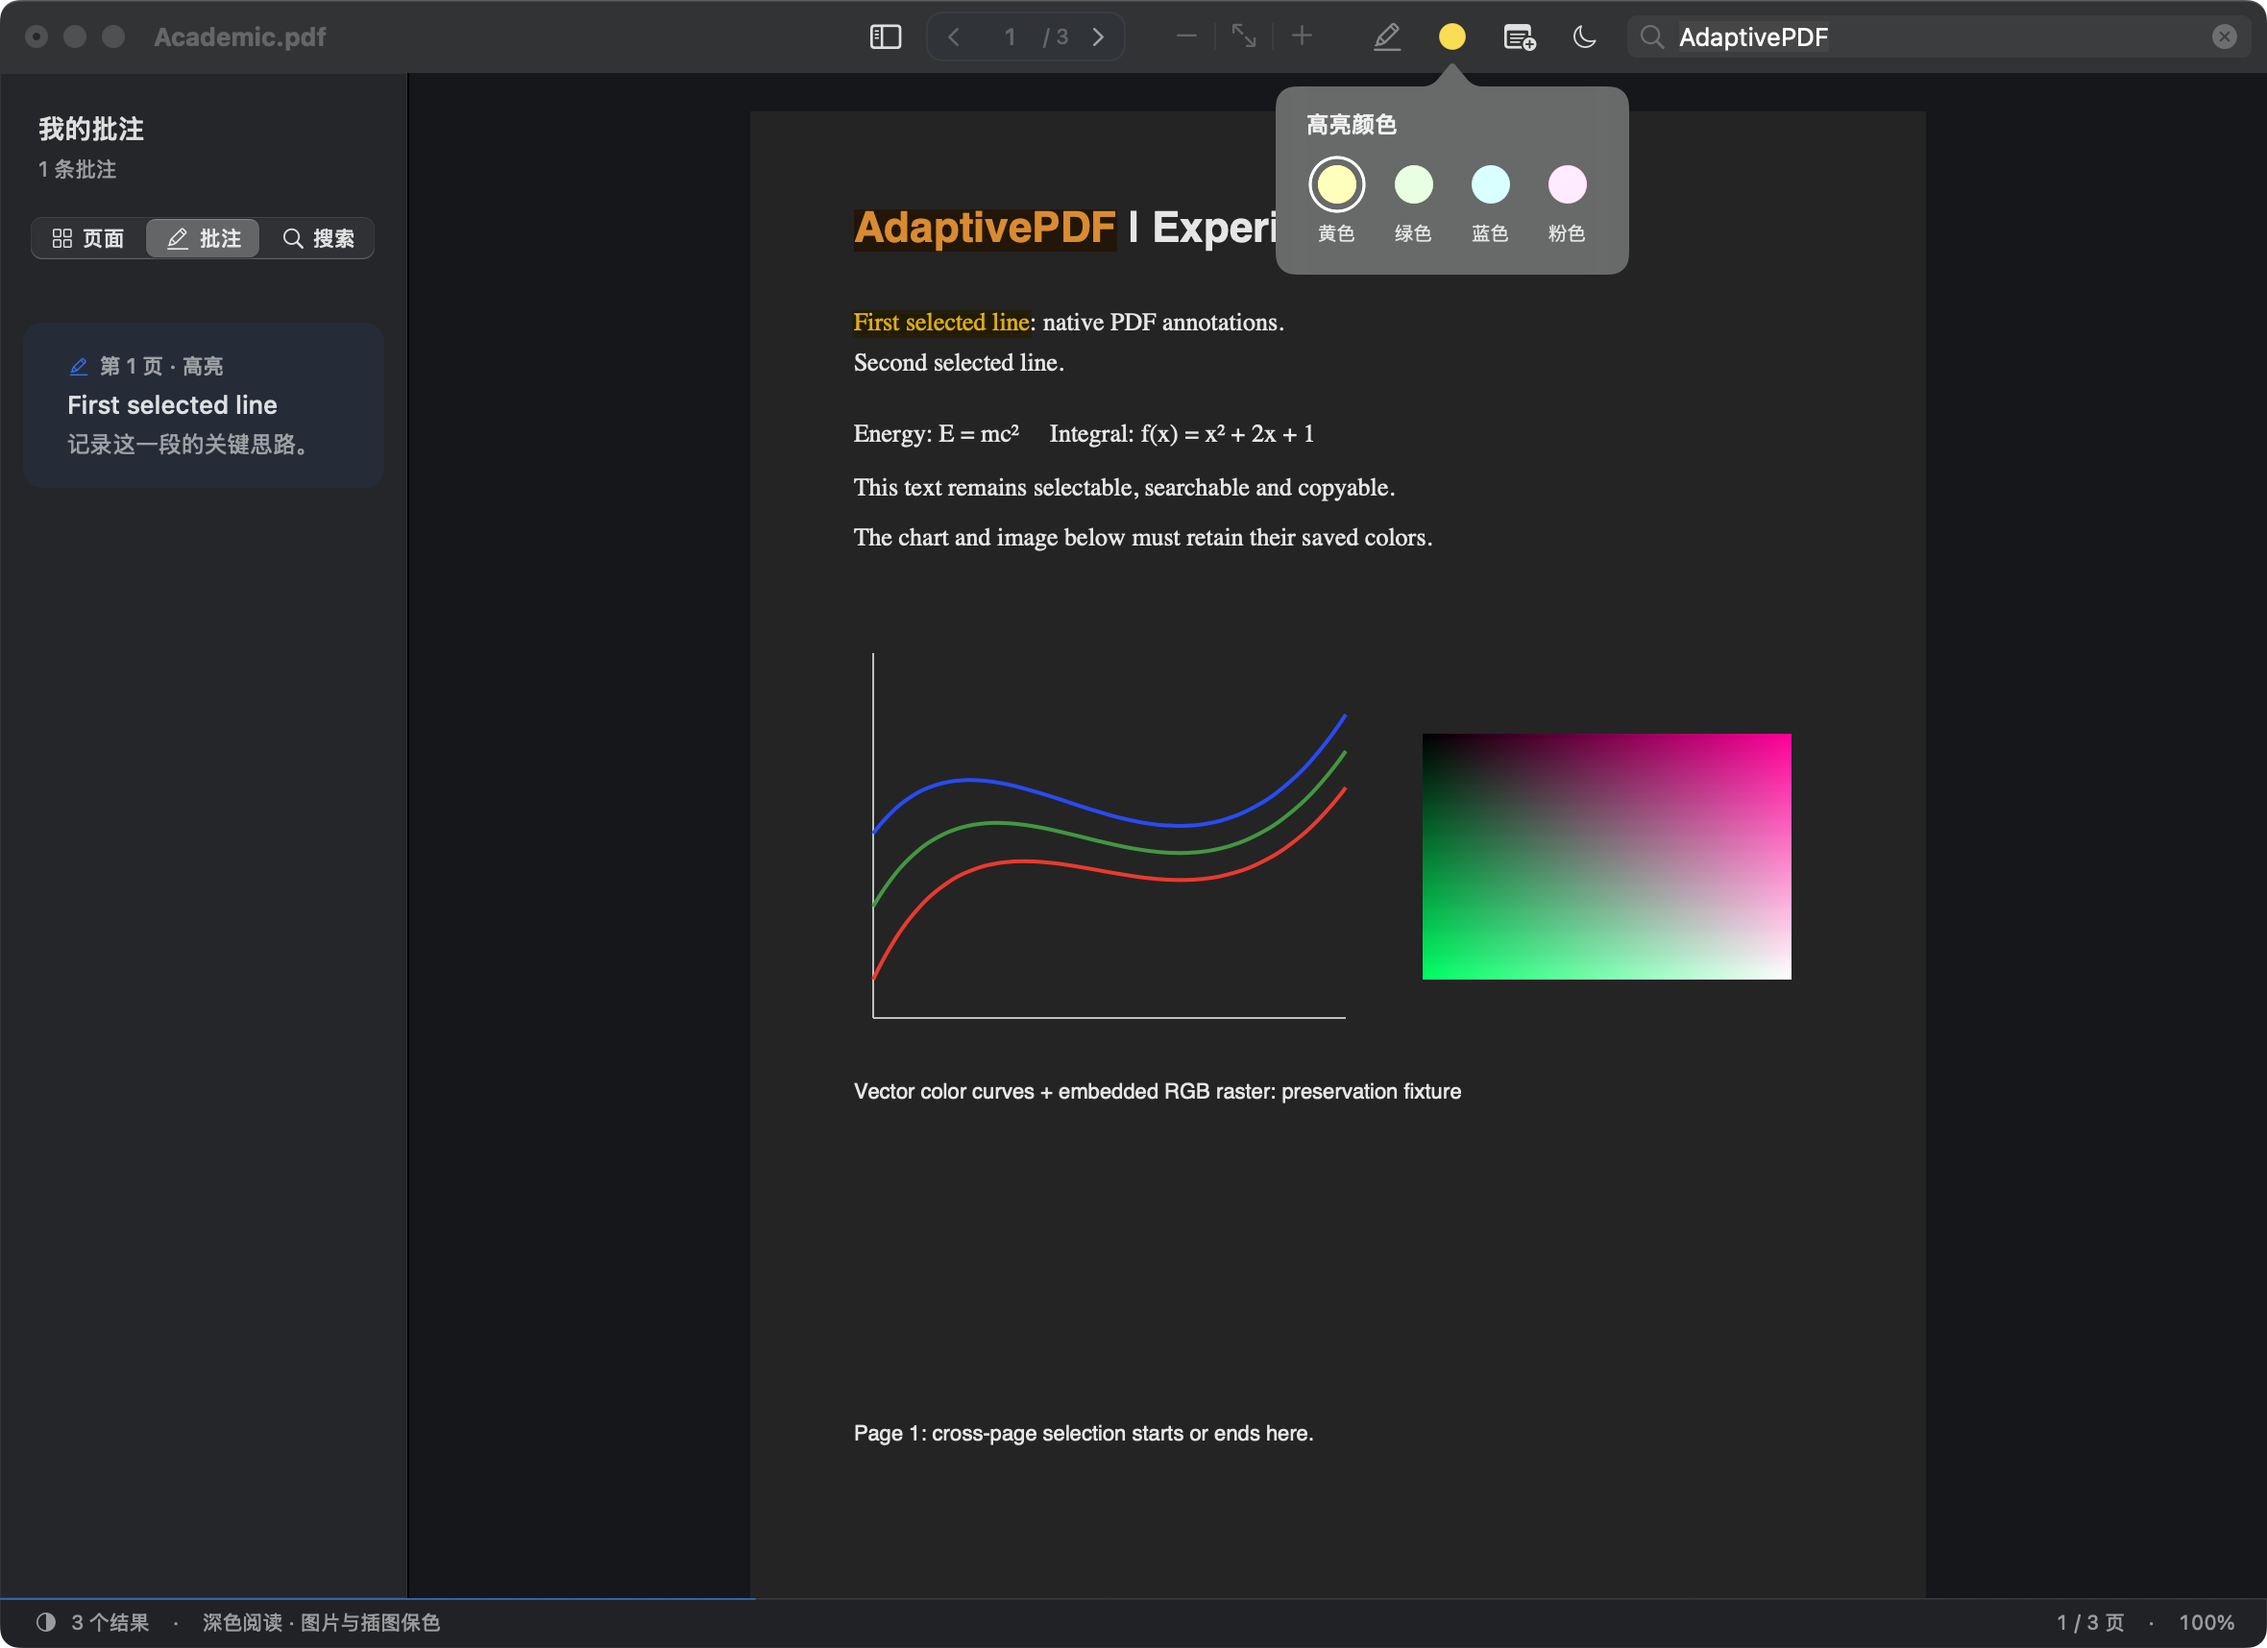
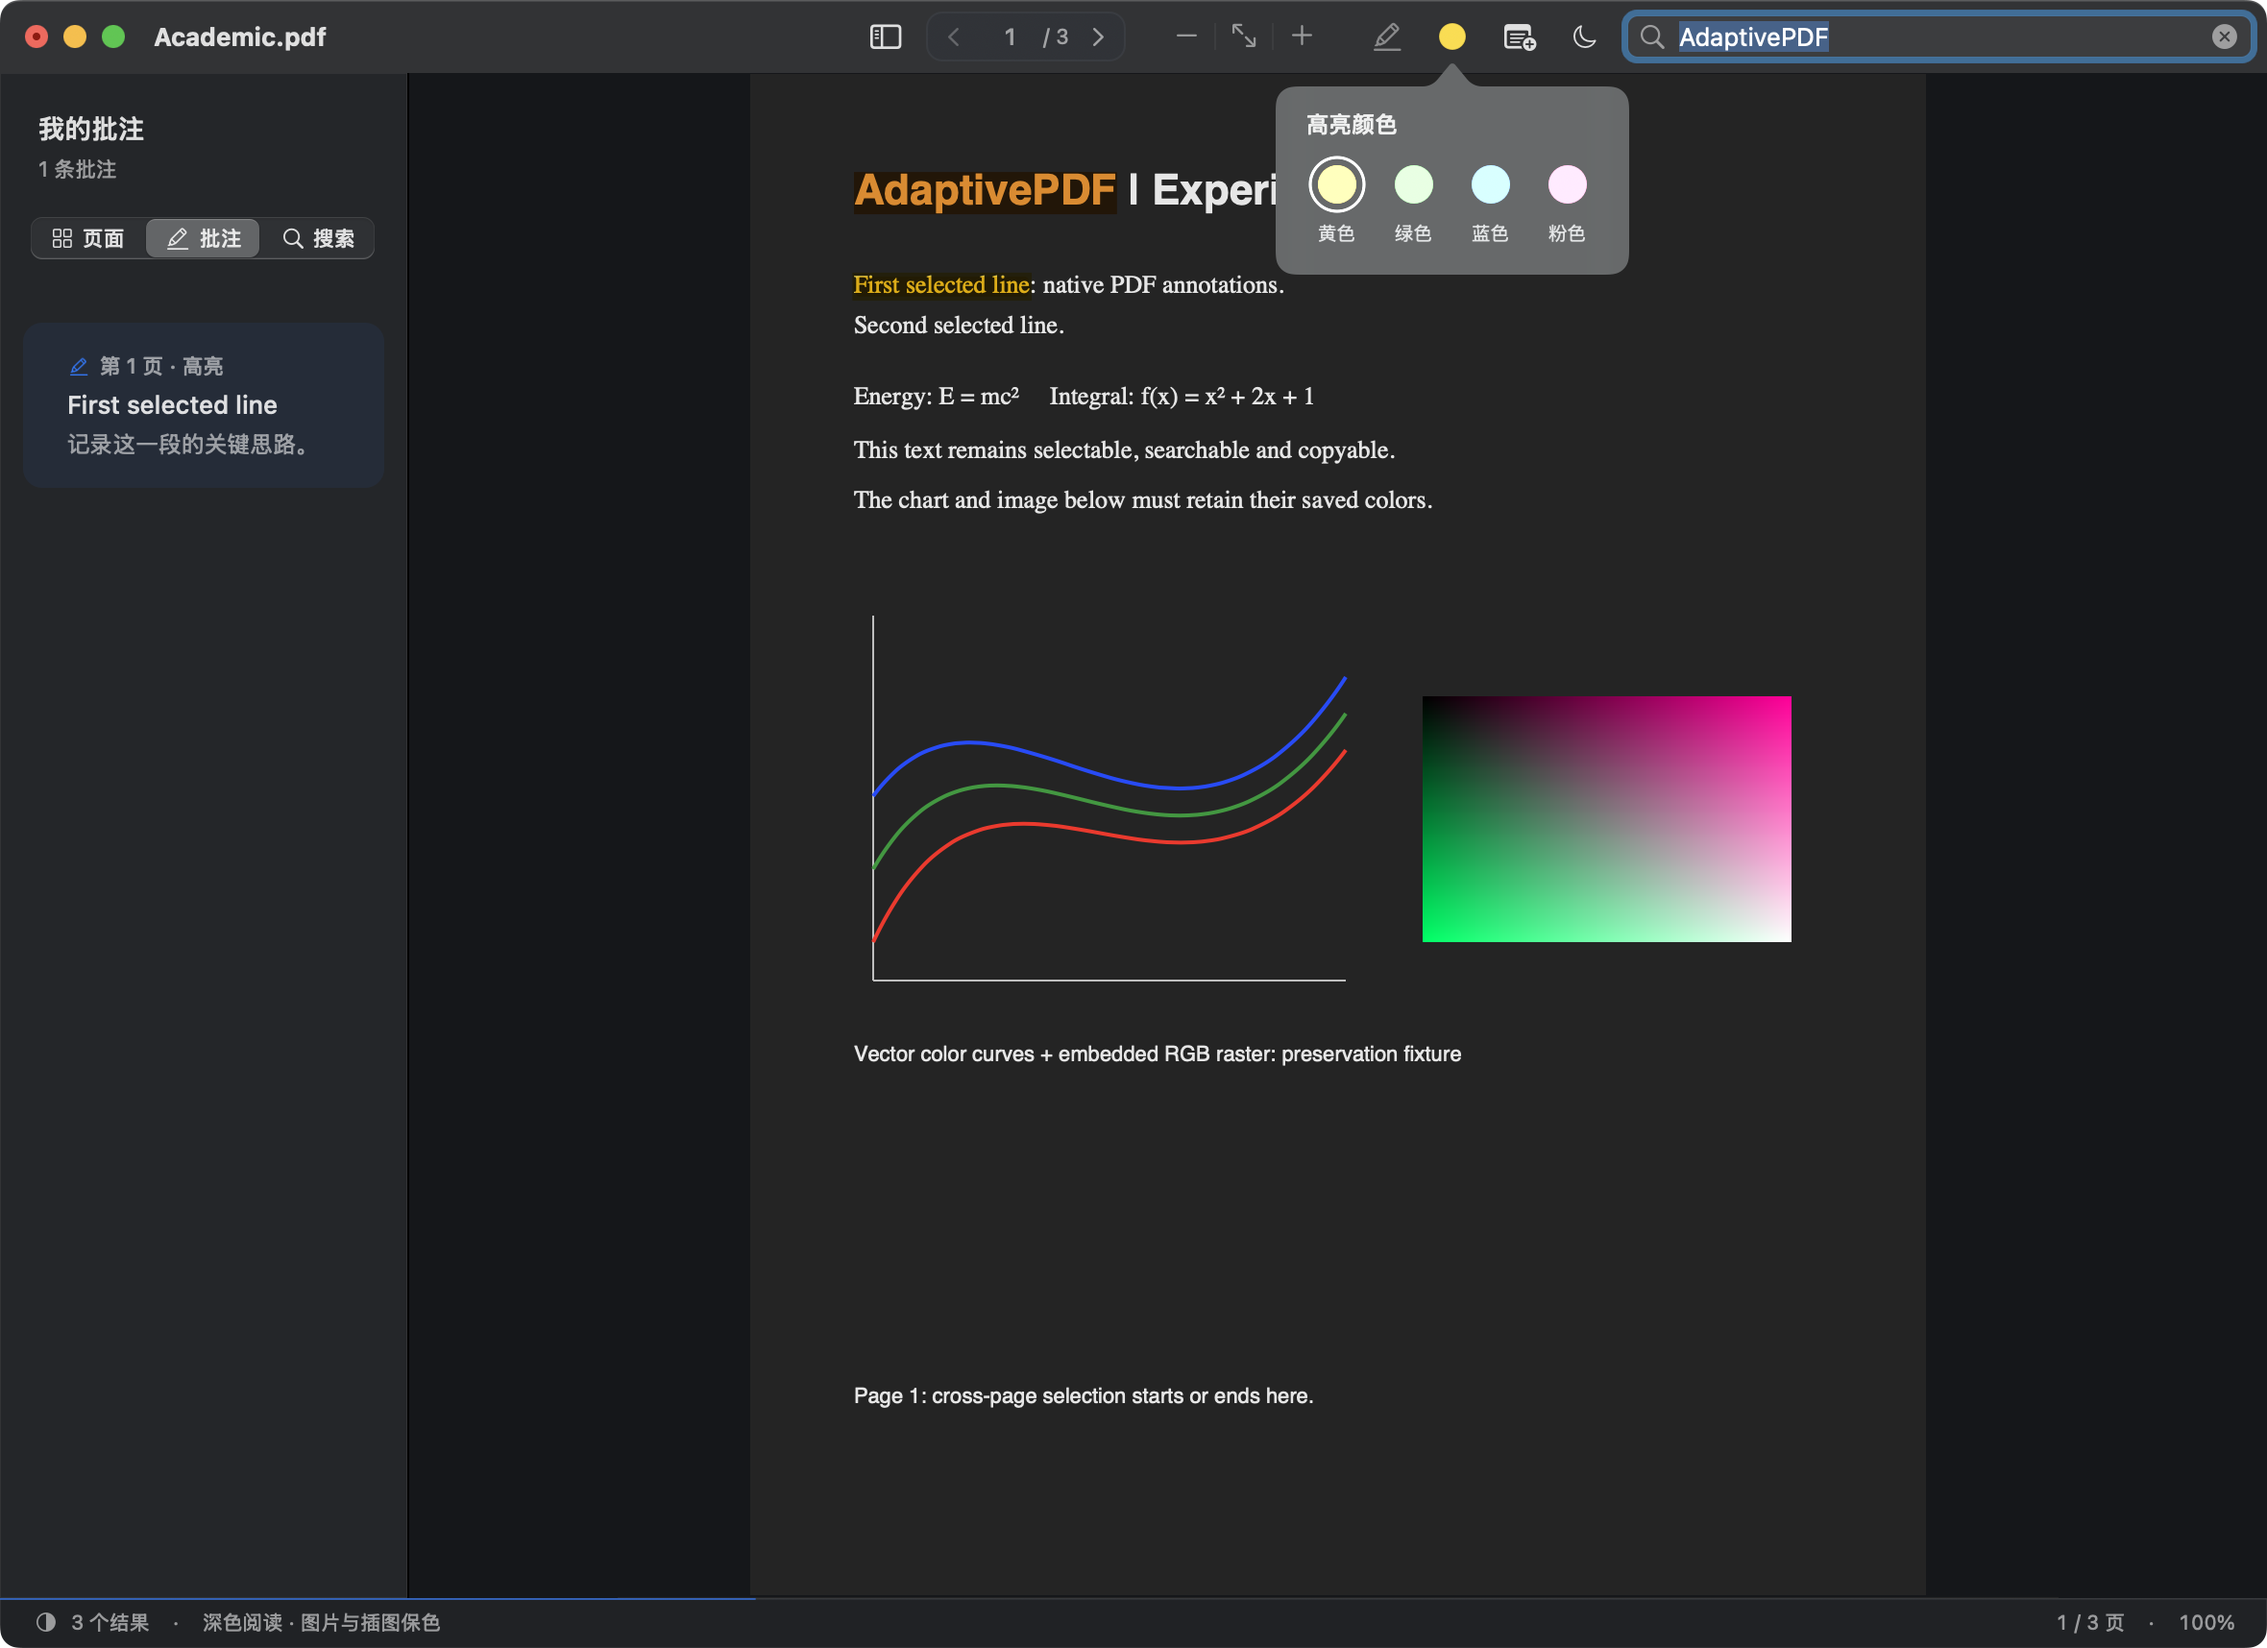
Reduce continuous page gaps and remove reading shadows

diff --git a/AdaptivePDF/Reader/ReaderPDFView.swift b/AdaptivePDF/Reader/ReaderPDFView.swift
@@ -34,7 +34,8 @@ final class ReaderPDFView: PDFView {
         displayMode = .singlePageContinuous
         displayDirection = .vertical
         displaysPageBreaks = true
-        pageBreakMargins = NSEdgeInsets(top: 20,left: 24,bottom: 20,right: 24)
+        pageBreakMargins = NSEdgeInsets(top: 0.5,left: 24,bottom: 0.5,right: 24)
+        pageShadowsEnabled = false
         minScaleFactor = 0.10
         maxScaleFactor = 8
         registerForDraggedTypes([.fileURL])
@@ -52,7 +53,7 @@ final class ReaderPDFView: PDFView {
         renderingLock.lock(); preserveImages = preserving; renderingLock.unlock()
         (document as? ImagePreservingPDFDocument)?.imagePreservingDark = preserving
         basicDarkActive = active
-        pageShadowsEnabled = !(active || preserving)
+        pageShadowsEnabled = false
         // A compositor filter changes neither PDF objects nor the geometry of
         // selections / hit targets, and needs no full-page bitmap cache.
         layer?.filters = active ? AppearancePreferences.basicDarkFilter().map { [$0] } : nil

diff --git a/scripts/generate_project.py b/scripts/generate_project.py
@@ -79,7 +79,7 @@ for owner in ["project", "target", "ui-target"]:
                 "ENABLE_HARDENED_RUNTIME": "YES", "ENABLE_APP_SANDBOX": "NO",
                 "LD_RUNPATH_SEARCH_PATHS": "$(inherited) @executable_path/../Frameworks",
                 "SUPPORTED_PLATFORMS": "macosx", "ARCHS": "$(ARCHS_STANDARD)",
-                "MARKETING_VERSION": "1.0.0", "CURRENT_PROJECT_VERSION": "13",
+                "MARKETING_VERSION": "1.0.0", "CURRENT_PROJECT_VERSION": "14",
                 "CODE_SIGN_INJECT_BASE_ENTITLEMENTS": "YES" if config == "Debug" else "NO",
                 "SWIFT_OBJC_BRIDGING_HEADER": "AdaptivePDF/AdaptivePDF-Bridging-Header.h",
                 "CLANG_CXX_LANGUAGE_STANDARD": "c++20", "CLANG_ENABLE_OBJC_ARC": "YES",

diff --git a/README.md b/README.md
@@ -4,13 +4,13 @@
 
 使用 Swift、AppKit、PDFKit、Core Graphics 与 qpdf 构建，文件在本机处理，无需注册账号。
 
-**当前版本：1.0.0 预览版（build 13）。** 安装包采用本地 ad-hoc 签名，尚未完成 Developer ID 签名和 Apple 公证。
+**当前版本：1.0.0 预览版（build 14）。** 安装包采用本地 ad-hoc 签名，尚未完成 Developer ID 签名和 Apple 公证。
 
 ## 下载
 
-- [下载 macOS 安装包（DMG）](https://github.com/MrszhuL/AdaptivePDF/releases/download/v1.0.0-build13/AdaptivePDF.dmg)
-- [下载应用压缩包（ZIP）](https://github.com/MrszhuL/AdaptivePDF/releases/download/v1.0.0-build13/AdaptivePDF-macOS.zip)
-- [版本说明、源码与 SHA256 校验文件](https://github.com/MrszhuL/AdaptivePDF/releases/tag/v1.0.0-build13)
+- [下载 macOS 安装包（DMG）](https://github.com/MrszhuL/AdaptivePDF/releases/download/v1.0.0-build14/AdaptivePDF.dmg)
+- [下载应用压缩包（ZIP）](https://github.com/MrszhuL/AdaptivePDF/releases/download/v1.0.0-build14/AdaptivePDF-macOS.zip)
+- [版本说明、源码与 SHA256 校验文件](https://github.com/MrszhuL/AdaptivePDF/releases/tag/v1.0.0-build14)
 
 两个安装包包含相同的 Universal 应用。普通使用者下载 DMG 即可，无需安装 Xcode、Python 或 qpdf。
 
@@ -26,7 +26,7 @@
 ## 主要功能
 
 - **紧凑原生界面**：单行工具栏、图标式主题入口和圆点颜色面板；柔和侧栏、清晰页码、批注卡片与阅读进度细线。窄窗口保留翻页、主题和搜索入口。
-- **原生阅读**：本地 PDF、多窗口、连续滚动或单页、缩放、适合页面/宽度、页码跳转、文字选择与复制。
+- **原生阅读**：本地 PDF、多窗口、连续滚动仅留细缝或单页阅读、缩放、适合页面/宽度、页码跳转、文字选择与复制。
 - **图片与插图保色深色阅读**：跟随系统、浅色和深色三种主题；保留嵌入图片和独立封装插图的原色，包括图内文字、箭头、灰度矩阵和底色。
 - **主题同步缩略图**：侧栏页面预览跟随正文变暗，图片继续保色；支持点击跳页、当前页同步及批注刷新。
 - **全文搜索**：异步搜索、结果列表与定位，支持前后切换匹配项。

diff --git a/TESTING.md b/TESTING.md
@@ -1,5 +1,13 @@
 # 构建与测试记录
 
+## build 14 增补
+
+连续滚动的页面上下外边距从各 20 点改为各 0.5 点，移除所有阅读主题中的页边阴影。原生 PDFKit 布局测量确认：100% 缩放时页间距从 40 点变为 1 点，191% 时从 76.4 点变为 1.91 点，400% 时从 160 点变为 4 点。测量只读取原文档，不裁切页面或改写 PDF。
+
+公开安装包沿用完整发布回归流程；Debug、优化构建、界面、关闭/退出、主题重启、文档回归及安装检查结果分别记录于候选包验证目录。未完成的窗口捕获、硬件输入和外部验收项目仍按实际结果记录。
+
+本轮 Debug 与优化主集成均为 158 项，另各有 15 项工具栏与颜色面板检查。README 界面图片更新自 build 14 的原生窗口捕获；页面间距的数值测量单独保存，不将其当作整个 PDF 窗口的逐像素保色验收。
+
 ## build 13 增补
 
 界面改为紧凑单行工具栏，标题与工具区域合计 38 点高；主题按钮只显示图标，颜色入口改为圆点，点击后显示原生四色弹出面板。统一侧栏字号、页码、选中底色与批注卡片，底栏缩至 26 点并增加阅读进度细线。README 的界面图片均重新捕获自己的 AppKit 窗口。

diff --git a/RELEASE.md b/RELEASE.md
@@ -119,3 +119,7 @@ UI 测试目标已构建成功，首次执行被 macOS 认证阻止，报错为 
 减少默认工具栏按钮，主题改为图标入口，颜色改为圆点及原生四色面板。标题与工具栏合计 38 点，底栏为 26 点；统一侧栏、缩略图和批注列表的层级与配色，优先留出 PDF 阅读空间。评论与阅读布局仍可从菜单或工具栏自定义中使用，评论保留原快捷键。
 
 每种构建新增独立的 15 项原生界面检查，包括按钮可用状态、四色面板、高亮改色及撤销/重做；主集成仍为 158 项。版本继续包含 build 12 的完整独立插图保色修复，版本说明见 `docs/releases/v1.0.0-build13.md`。
+
+## build 14 的页间距修复
+
+连续阅读的应用页间距缩小为原来的 1/40，浅色和深色模式都移除页边阴影。191% 缩放下，两页之间仅留约 1.91 点细缝。该修改仅影响阅读器布局，不裁切 PDF 本身的纸张边距。版本说明见 `docs/releases/v1.0.0-build14.md`。

diff --git a/docs/releases/v1.0.0-build14.md b/docs/releases/v1.0.0-build14.md
@@ -1,0 +1,7 @@
+# AdaptivePDF 1.0.0 预览版（build 14）
+
+连续阅读时，两页之间的大块应用底色缩为细缝：页面上下外边距各为 0.5 点，页间距仅为原来的 1/40。100% 缩放时为 1 点，191% 时约为 1.91 点。浅色和深色阅读都移除了页边阴影，让页面衔接更连贯。
+
+修改只影响阅读器显示布局，PDF 原有纸张边距、文字、图片与批注不作裁切或改写。继续包含紧凑工具栏、四色高亮面板及独立矢量插图保色。
+
+提供 Intel 和 Apple 芯片的 Universal macOS 安装包，需要 macOS 15 或更新版本；Apple 芯片尚未完成真机验收，当前不支持 iPad。仍为本地 ad-hoc 签名的预览版，未完成 Developer ID 签名与 Apple 公证。验证范围与剩余验收项目见 `TESTING.md`、`RELEASE.md` 和发布页的 `release-manifest.json`。
